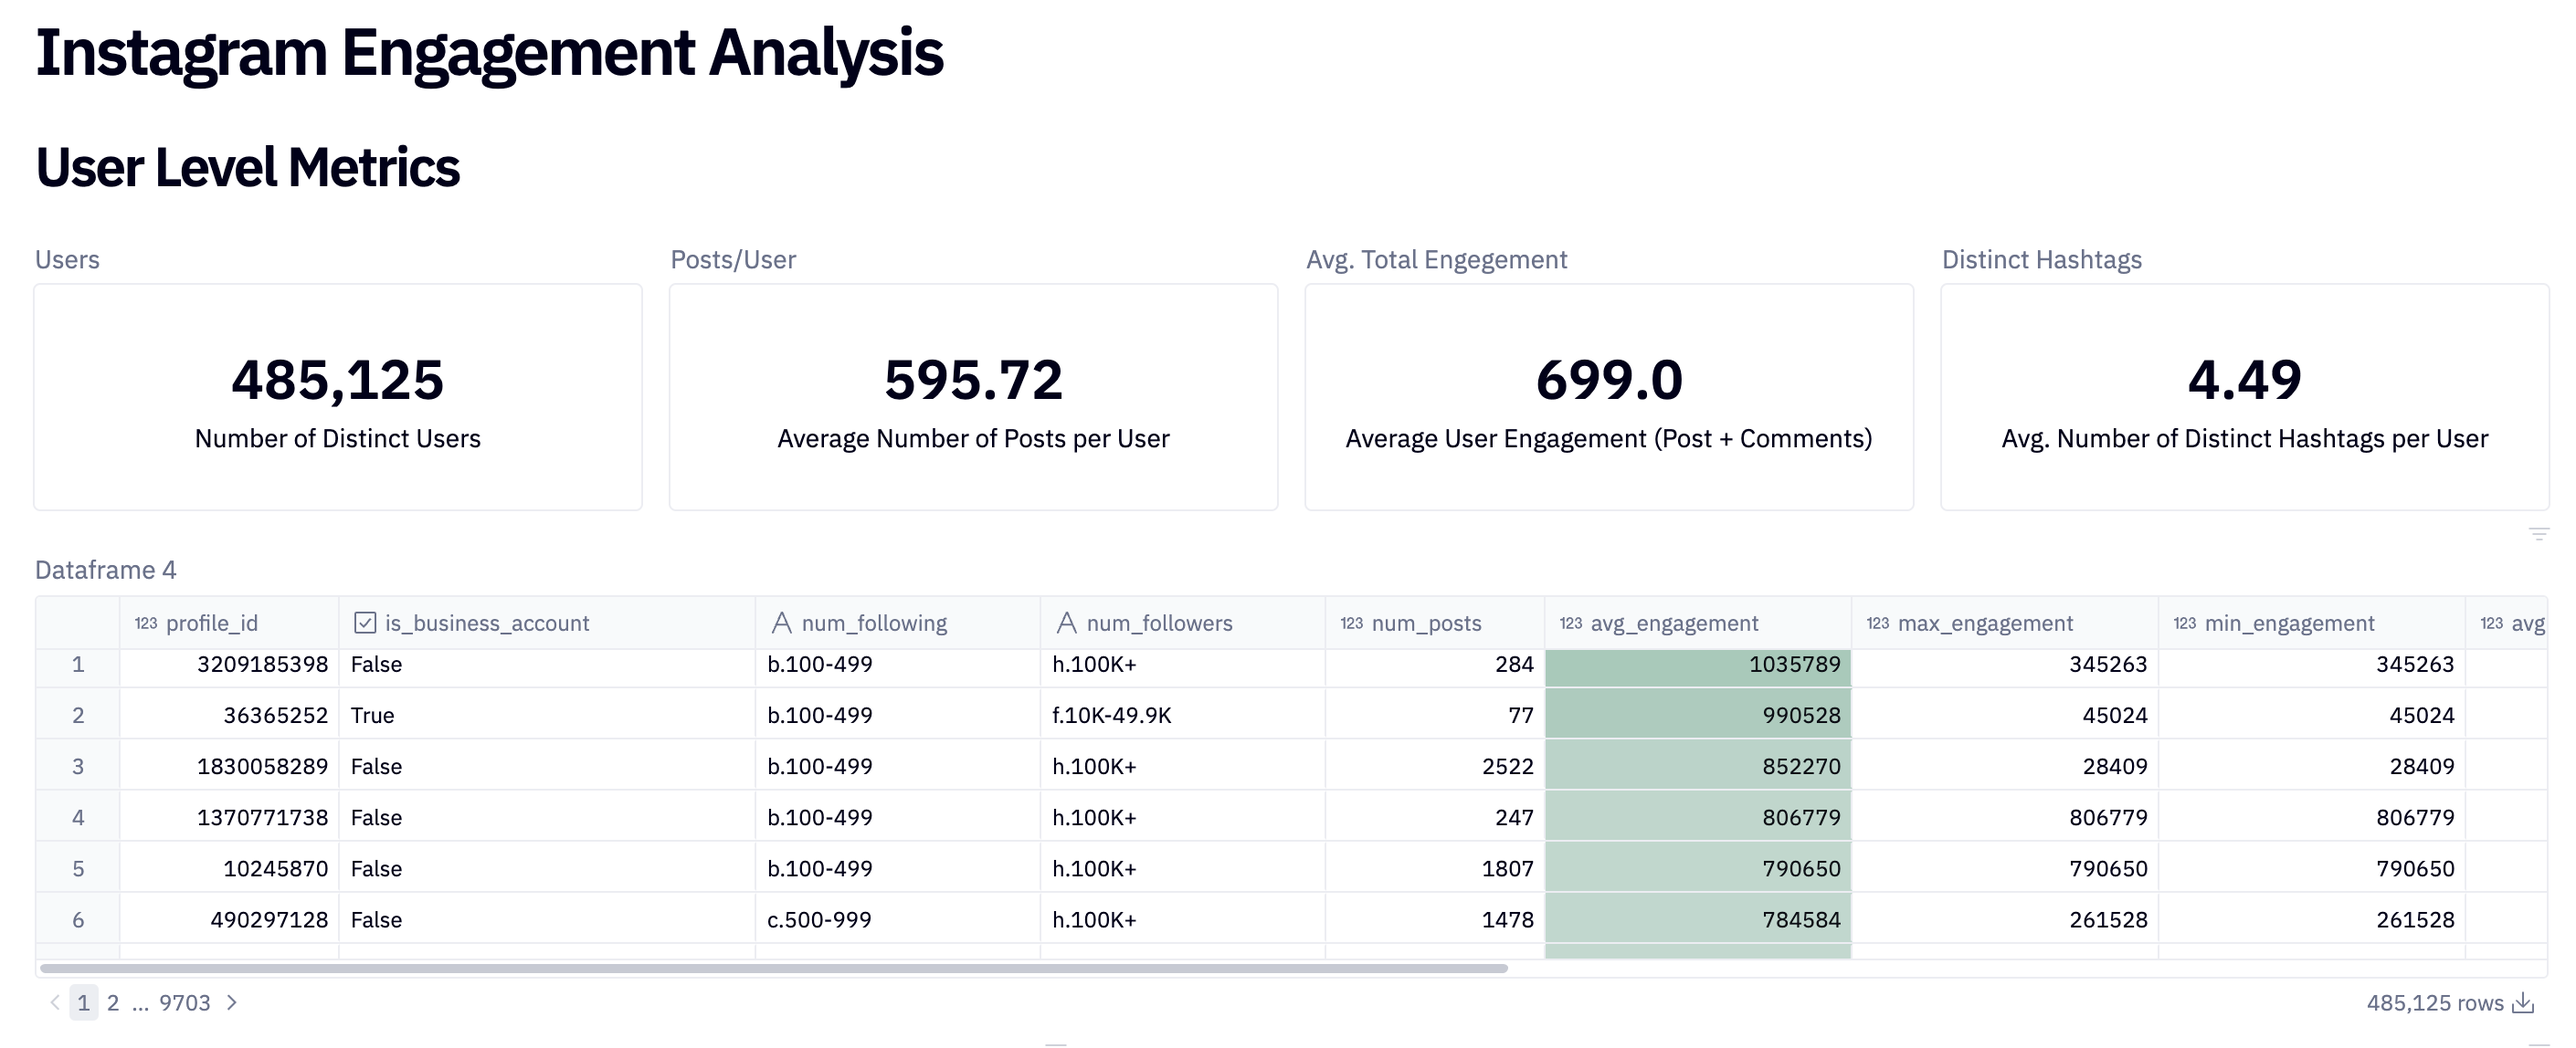
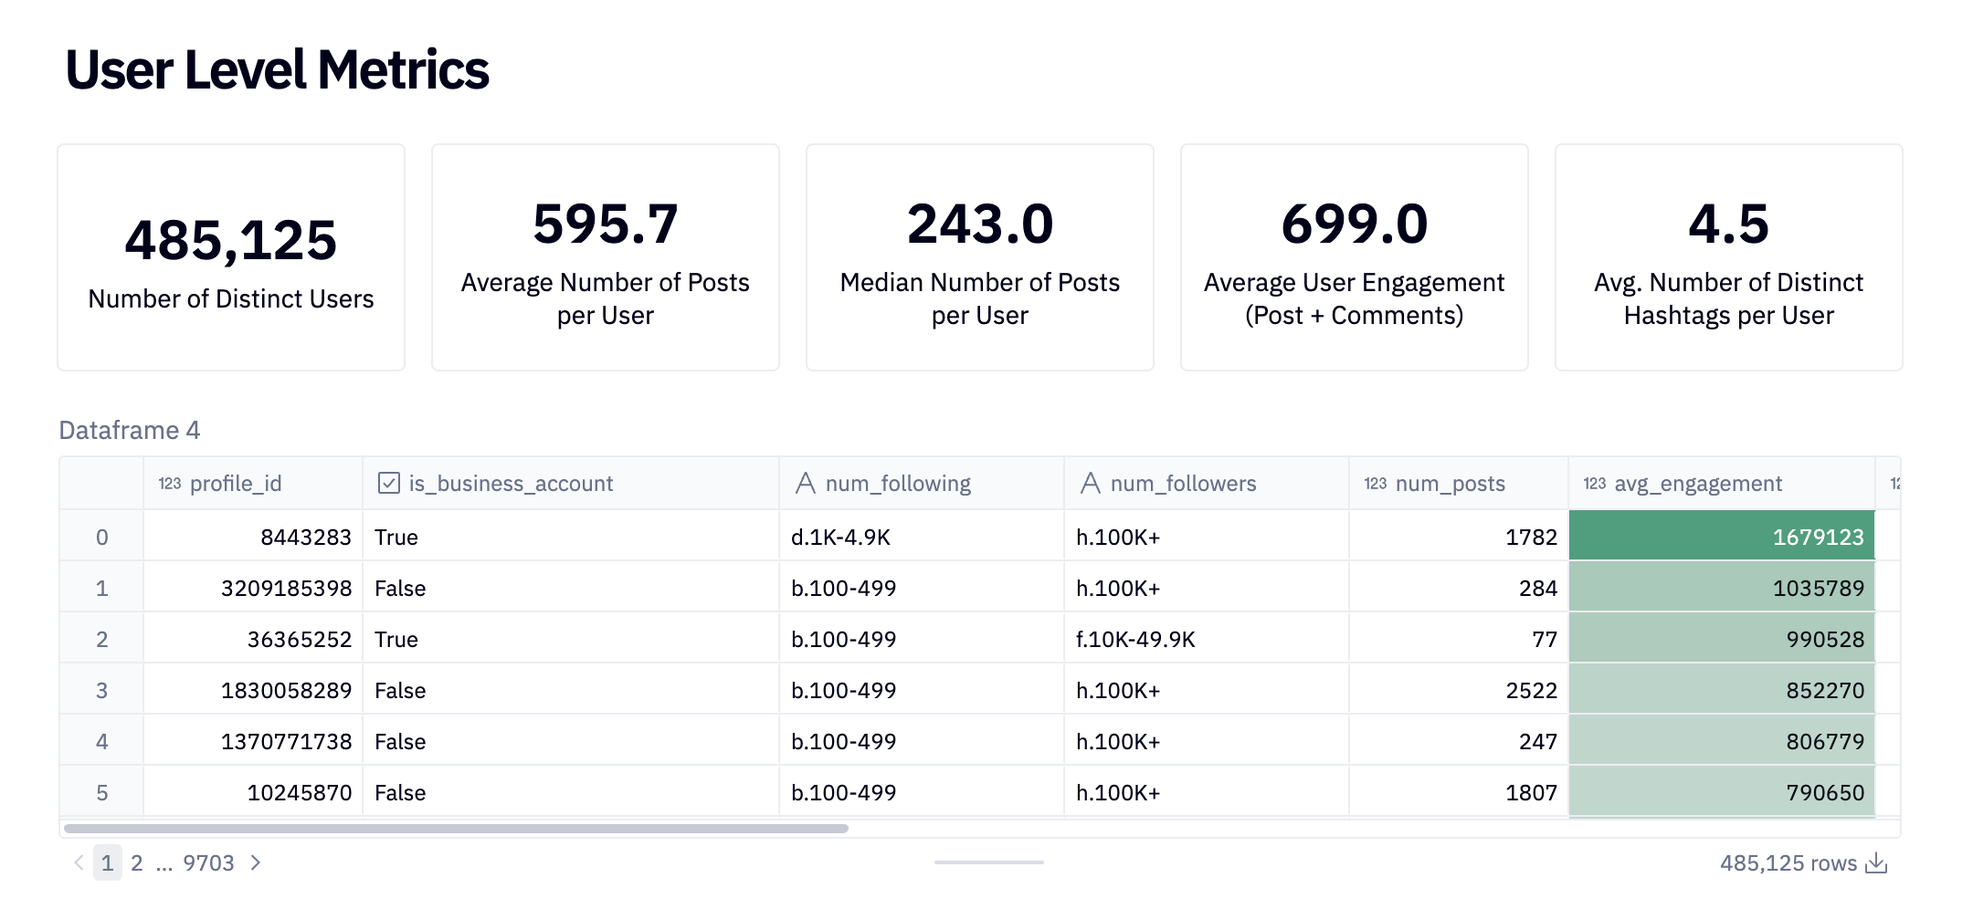
readm

diff --git a/README.md b/README.md
@@ -68,14 +68,26 @@ The final dataset was imported into Hex for visualisation. Interactive dashboard
 [**Dashboard Link**](https://app.hex.tech/52941720-d1c9-44bf-a2ec-e05eec443937/hex/fe651505-5b5f-40de-a909-2d06c74fd07c/draft/logic?view=app&dialog=preview)
 
 ### User-Level Metrics Summary:
-Our dataset consists of 485,125 distinct users, with an average of 595.72 posts per user. On average, each user generates 699 engagements per post, which includes likes and comments. Additionally, users utilise an average of 4.49 distinct hashtags in their posts, highlighting a moderate level of hashtag diversity.
+Our dataset consists of 485,125 distinct users, with an average of 595.72 and a median of 243 posts per user. On average, each user generates 699 engagements per post, which includes likes and comments. Additionally, users utilise an average of 4.49 distinct hashtags in their posts, highlighting a moderate level of hashtag diversity.
 
 #### Business Accounts
 In terms of business versus non-business accounts, 35% of the profiles analysed are business accounts, with the majority (65%) being personal profiles. This distinction could play a significant role in understanding posting behaviour and engagement differences.
 
 #### Follower Count Distribution
 When categorising users by their follower count, we observe that the majority fall within the 100-499 followers range, followed by 500-999 and 1,000-4,999 followers. This suggests that most users have modest-sized followings, with fewer users having larger audiences. Interestingly, very few users exceed 50K followers, which points to a minority of high-profile accounts in the dataset.
+
 ![Dashboard1](dashboard1.png)
+
+![Dashboard2](dashboard2.png)
+
+![Dashboard3](dashboard3.png)
+
+![Dashboard4](dashboard4.png)
+
+![Dashboard5](dashboard5.png)
+
+-  There's a strong concentration of users in the lower bands, with majority of users sitting between having 100-5k followers  and following between 100-5k followers.
+There are very few influencers, i.e. where the number of followers is over 50k and these users will also have a lower numbr of users they follow.
 
 ## Conclusions
 [Summarise key findings and their implications]
